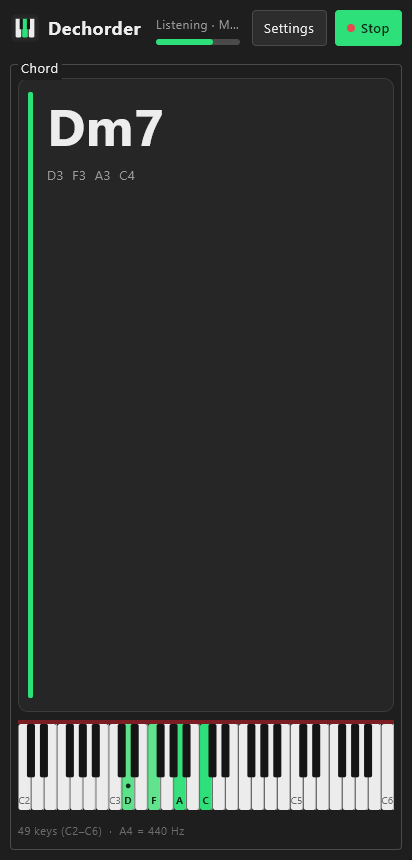
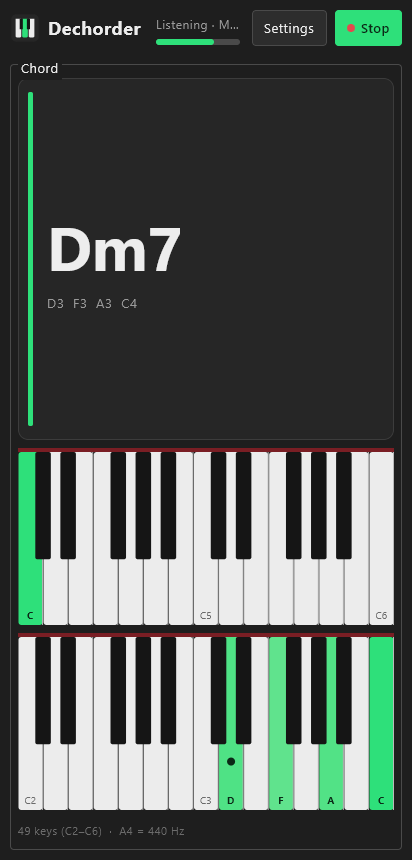
Mobile UI improvements

diff --git a/composeApp/src/commonMain/kotlin/app/dechorder/ui/ChordCard.kt b/composeApp/src/commonMain/kotlin/app/dechorder/ui/ChordCard.kt
@@ -3,6 +3,7 @@ package app.dechorder.ui
 import androidx.compose.foundation.background
 import androidx.compose.foundation.layout.Arrangement
 import androidx.compose.foundation.layout.Box
+import androidx.compose.foundation.layout.BoxWithConstraints
 import androidx.compose.foundation.layout.Column
 import androidx.compose.foundation.layout.Row
 import androidx.compose.foundation.layout.Spacer
@@ -14,21 +15,30 @@ import androidx.compose.foundation.layout.width
 import androidx.compose.foundation.shape.RoundedCornerShape
 import androidx.compose.material3.Text
 import androidx.compose.runtime.Composable
+import androidx.compose.runtime.remember
 import androidx.compose.ui.Alignment
 import androidx.compose.ui.Modifier
 import androidx.compose.ui.draw.clip
+import androidx.compose.ui.platform.LocalDensity
+import androidx.compose.ui.text.TextStyle
 import androidx.compose.ui.text.font.FontWeight
+import androidx.compose.ui.text.rememberTextMeasurer
 import androidx.compose.ui.text.style.TextAlign
 import androidx.compose.ui.text.style.TextOverflow
 import androidx.compose.ui.unit.dp
 import androidx.compose.ui.unit.sp
 import app.dechorder.engine.LiveState
 import app.dechorder.music.Notes
+import app.dechorder.music.Quality
 import app.dechorder.music.Reading
+
+private const val REFERENCE_SIZE = 100f
+/** Horizontal space in the card that isn't text (dp): the accent bar and the paddings around it. */
+private const val TEXT_INSET = 10f + 5f + 14f + 10f
 
 /** The big display: the chord sounding now and its notes. */
 @Composable
-fun ChordCard(state: LiveState, compact: Boolean, modifier: Modifier = Modifier) {
+fun ChordCard(state: LiveState, modifier: Modifier = Modifier) {
     Panel(modifier) {
         val reading = state.reading
         if (!state.listening) {
@@ -54,31 +64,55 @@ fun ChordCard(state: LiveState, compact: Boolean, modifier: Modifier = Modifier)
         val accent = if (reading is Reading.ChordReading) Palette.Accent
         else if (reading != null) Palette.TextDim else Palette.Border
 
-        Row(Modifier.fillMaxSize().padding(vertical = 12.dp)) {
-            Box(Modifier.padding(start = 10.dp, top = 2.dp, bottom = 2.dp).width(5.dp).fillMaxHeight()
-                .clip(RoundedCornerShape(2.dp)).background(accent))
-            Column(Modifier.weight(1f).padding(start = 14.dp, end = 12.dp), verticalArrangement = Arrangement.Center) {
-                val big = if (compact) 52.sp else 68.sp
-                Text(
-                    title,
-                    color = if (reading == null) Palette.TextFaint else Palette.Text,
-                    fontSize = big,
-                    lineHeight = big,
-                    fontWeight = FontWeight.Bold,
-                    maxLines = 1,
-                    overflow = TextOverflow.Ellipsis,
-                )
-                if (subtitle.isNotEmpty()) {
-                    Text(subtitle, color = Palette.TextDim, fontSize = if (compact) 16.sp else 19.sp, maxLines = 1)
+        BoxWithConstraints(Modifier.fillMaxSize()) {
+            // One size for every chord: as big as the card allows (about a third of its height), but small
+            // enough that the widest chord name without its bass (e.g. "Ebm(maj7)") fits the width. A slash
+            // chord too wide for one line puts its bass on a second line ("Ebm(maj7)" / "/Ab"), so the size
+            // leaves room in height for two lines.
+            val measurer = rememberTextMeasurer()
+            val density = LocalDensity.current
+            val widest = remember(measurer, density) {
+                val style = TextStyle(fontSize = REFERENCE_SIZE.sp, fontWeight = FontWeight.Bold)
+                fun width(text: String) = measurer.measure(text, style).size.width
+                val root = Notes.COMMON_NAMES.maxBy { width(it) }
+                val quality = Quality.entries.map { it.symbol }.maxBy { width(it) }
+                with(density) { width("$root$quality").toDp().value } * 1.04f   // a little spare for kerning
+            }
+            val textWidth = maxWidth.value - TEXT_INSET
+            val bigSize = minOf(
+                maxHeight.value * 0.32f,
+                (maxHeight.value - 28f) / 2.25f,   // two title lines, the notes line and the paddings
+                REFERENCE_SIZE * textWidth / widest,
+            ).coerceIn(1f, 130f)
+            val titleStyle = TextStyle(fontSize = bigSize.sp, lineHeight = bigSize.sp, fontWeight = FontWeight.Bold)
+            // The bass follows the last "/" (the 6/9 chord has one of its own).
+            val slash = if (reading is Reading.ChordReading && reading.chord.isInversion) title.lastIndexOf('/') else -1
+            val shownTitle = if (slash > 0 &&
+                measurer.measure(title, titleStyle).size.width > with(density) { textWidth.dp.toPx() }
+            ) title.substring(0, slash) + "\n" + title.substring(slash) else title
+            Row(Modifier.fillMaxSize().padding(vertical = 12.dp)) {
+                Box(Modifier.padding(start = 10.dp, top = 2.dp, bottom = 2.dp).width(5.dp).fillMaxHeight()
+                    .clip(RoundedCornerShape(2.dp)).background(accent))
+                Column(Modifier.weight(1f).fillMaxHeight().padding(start = 14.dp, end = 10.dp), verticalArrangement = Arrangement.Center) {
+                    Text(
+                        shownTitle,
+                        color = if (reading == null) Palette.TextFaint else Palette.Text,
+                        style = titleStyle,
+                        maxLines = 2,
+                        overflow = TextOverflow.Ellipsis,
+                    )
+                    if (subtitle.isNotEmpty()) {
+                        Text(subtitle, color = Palette.TextDim, fontSize = (bigSize * 0.3f).coerceIn(16f, 30f).sp, maxLines = 1)
+                    }
+                    Spacer(Modifier.height(4.dp))
+                    Text(
+                        if (state.notes.isEmpty()) "listening…" else state.notes.joinToString("  ") { Notes.nameWithOctave(it.midi) },
+                        color = Palette.TextDim,
+                        fontSize = (bigSize * 0.22f).coerceIn(13f, 24f).sp,
+                        maxLines = 1,
+                        overflow = TextOverflow.Ellipsis,
+                    )
                 }
-                Spacer(Modifier.height(4.dp))
-                Text(
-                    if (state.notes.isEmpty()) "listening…" else state.notes.joinToString("  ") { Notes.nameWithOctave(it.midi) },
-                    color = Palette.TextDim,
-                    fontSize = 13.sp,
-                    maxLines = 1,
-                    overflow = TextOverflow.Ellipsis,
-                )
             }
         }
     }

diff --git a/composeApp/src/commonMain/kotlin/app/dechorder/ui/App.kt b/composeApp/src/commonMain/kotlin/app/dechorder/ui/App.kt
@@ -35,7 +35,6 @@ import androidx.compose.ui.Modifier
 import androidx.compose.ui.draw.clip
 import androidx.compose.ui.text.font.FontWeight
 import androidx.compose.ui.text.style.TextOverflow
-import androidx.compose.ui.unit.Dp
 import androidx.compose.ui.unit.dp
 import androidx.compose.ui.unit.sp
 import app.dechorder.engine.LiveListener
@@ -71,7 +70,7 @@ fun DechorderApp(platform: Platform) {
                 }
                 if (wide) {
                     Row(Modifier.fillMaxSize(), horizontalArrangement = Arrangement.spacedBy(10.dp)) {
-                        Main(state, settings, range, compact = false, onListen = listener::toggle,
+                        Main(state, settings, range, compact = false, twoRows = false, onListen = listener::toggle,
                             settingsButton = null, modifier = Modifier.weight(1f).fillMaxHeight())
                         GroupBox("Settings", Modifier.width(340.dp).fillMaxHeight()) {
                             SettingsPanel(platform, settings, state, Modifier.fillMaxSize())
@@ -87,7 +86,8 @@ fun DechorderApp(platform: Platform) {
                         SettingsPanel(platform, settings, state, Modifier.fillMaxSize())
                     }
                 } else {
-                    Main(state, settings, range, compact = true, onListen = listener::toggle,
+                    // Portrait phone: the keyboard in two rows, so the keys are twice as wide.
+                    Main(state, settings, range, compact = true, twoRows = maxHeight > maxWidth, onListen = listener::toggle,
                         settingsButton = { showSettings = true }, modifier = Modifier.fillMaxSize())
                 }
             }
@@ -101,22 +101,41 @@ private fun Main(
     settings: AppSettings,
     range: KeyboardRange,
     compact: Boolean,
+    twoRows: Boolean,
     onListen: () -> Unit,
     settingsButton: (() -> Unit)?,
     modifier: Modifier,
 ) {
     Column(modifier, verticalArrangement = Arrangement.spacedBy(10.dp)) {
         Header(state, onListen, settingsButton)
-        GroupBox("Chord", Modifier.fillMaxWidth().weight(1f)) {
-            ChordCard(state, compact, Modifier.fillMaxWidth().weight(1f).heightIn(min = 120.dp, max = 260.dp))
-            BoxWithConstraints(Modifier.fillMaxWidth()) {
-                // Keys about six times as long as they are wide, like a real piano.
-                val whites = (range.low..range.high).count { !app.dechorder.music.Notes.isBlack(it) }
-                val keyboardHeight: Dp = (maxWidth / whites * 6).coerceIn(90.dp, if (compact) 150.dp else 200.dp)
-                PianoKeyboard(
-                    range.low, range.high, state.notes, settings.showNoteNames,
-                    Modifier.fillMaxWidth().height(keyboardHeight),
-                )
+        val rows = (if (twoRows) splitKeyboard(range.low, range.high) else null)
+            ?.let { (lower, upper) -> listOf(upper, lower) }   // treble above bass
+            ?: listOf(range.low..range.high)
+        val slots = rows.maxOf { whiteCount(it) }
+        val split = rows.size == 2
+        // One keyboard row: the card stops at 260 dp and the keyboard sits right under it, rather than
+        // leaving a tall empty card. Two rows (portrait phone): the card and the keyboard share the
+        // screen half-and-half.
+        GroupBox("Chord", Modifier.fillMaxWidth().weight(1f, fill = split)) {
+            val card = if (split) Modifier.weight(1f)
+            else Modifier.weight(1f, fill = false).heightIn(min = 120.dp, max = 260.dp)
+            ChordCard(state, Modifier.fillMaxWidth().then(card))
+            BoxWithConstraints(Modifier.fillMaxWidth().then(if (split) Modifier.weight(1f) else Modifier)) {
+                // One row: keys about six times as long as they are wide, like a real piano.
+                val singleHeight = (maxWidth / slots * 6).coerceIn(90.dp, if (compact) 150.dp else 200.dp)
+                Column(if (split) Modifier.fillMaxSize() else Modifier, verticalArrangement = Arrangement.spacedBy(8.dp)) {
+                    val rowHeight = if (split) Modifier.weight(1f) else Modifier.height(singleHeight)
+                    for (row in rows) {
+                        // A shorter row is extended to the same length (the bass row then also shows the
+                        // first key or two of the treble row), so both rows end in line.
+                        val shown = extendKeyboard(row, slots)
+                        PianoKeyboard(
+                            shown.first, shown.last, state.notes, settings.showNoteNames,
+                            Modifier.fillMaxWidth().then(rowHeight),
+                            slots = slots, fullLow = range.low, fullHigh = range.high,
+                        )
+                    }
+                }
             }
             Text(
                 "${range.label}  ·  A4 = ${settings.a4} Hz",

diff --git a/composeApp/src/commonMain/kotlin/app/dechorder/ui/PianoKeyboard.kt b/composeApp/src/commonMain/kotlin/app/dechorder/ui/PianoKeyboard.kt
@@ -22,6 +22,10 @@ import app.dechorder.music.Notes
 /**
  * A piano keyboard from [low] to [high] (MIDI numbers, both white keys) whose keys light up for the
  * notes sounding. Brighter means louder; the lowest note (the bass) is marked with a dot.
+ *
+ * When the keyboard is shown in several rows, [slots] is the number of white keys the widest row has
+ * (so all rows have keys of the same size, left-aligned) and [fullLow]..[fullHigh] is the range of
+ * all rows together: only notes outside it get an arrow.
  */
 @Composable
 fun PianoKeyboard(
@@ -30,6 +34,9 @@ fun PianoKeyboard(
     notes: List<ActiveNote>,
     showNames: Boolean,
     modifier: Modifier = Modifier,
+    slots: Int = 0,
+    fullLow: Int = low,
+    fullHigh: Int = high,
 ) {
     val measurer = rememberTextMeasurer()
     Canvas(modifier) {
@@ -39,7 +46,7 @@ fun PianoKeyboard(
         if (whites.isEmpty()) return@Canvas
         val felt = 4.dp.toPx()
         val top = felt
-        val whiteW = size.width / whites.size
+        val whiteW = size.width / maxOf(slots, whites.size)
         val whiteH = size.height - top
         val blackW = whiteW * 0.62f
         val blackH = whiteH * 0.62f
@@ -80,8 +87,8 @@ fun PianoKeyboard(
         }
 
         // Notes beyond the keys shown: an arrow at that end.
-        if (notes.any { it.midi < low }) arrow(left = true, top, whiteH)
-        if (notes.any { it.midi > high }) arrow(left = false, top, whiteH)
+        if (low == fullLow && notes.any { it.midi < fullLow }) arrow(left = true, top, whiteH)
+        if (high == fullHigh && notes.any { it.midi > fullHigh }) arrow(left = false, top, whiteH)
     }
 }
 
@@ -113,4 +120,31 @@ private fun DrawScope.arrow(left: Boolean, top: Float, height: Float) {
         close()
     }
     drawPath(path, Palette.Accent)
+}
+
+/**
+ * Splits [low]..[high] into a lower and an upper half for a two-row keyboard. The cut falls after a B or
+ * an E (no black key between the halves), as close to the middle as possible. Null if the range is too small.
+ */
+fun splitKeyboard(low: Int, high: Int): Pair<IntRange, IntRange>? {
+    val whites = (low..high).filter { !Notes.isBlack(it) }
+    val middle = (whites.size - 1) / 2.0
+    val cut = whites.indices
+        .filter { it in 2 until whites.size - 3 && Notes.pc(whites[it]) in setOf(4, 11) }
+        .minByOrNull { kotlin.math.abs(it - middle) + if (Notes.pc(whites[it]) == 11) 0.0 else 0.5 }
+        ?: return null
+    return whites.first()..whites[cut] to whites[cut + 1]..whites.last()
+}
+
+fun whiteCount(range: IntRange): Int = range.count { !Notes.isBlack(it) }
+
+/** Extends [range] upwards (downwards at the top of the MIDI range) until it has [whites] white keys. */
+fun extendKeyboard(range: IntRange, whites: Int): IntRange {
+    var low = range.first
+    var high = range.last
+    while (whiteCount(low..high) < whites) {
+        if (high < 108) { high++; while (Notes.isBlack(high)) high++ }
+        else { low--; while (Notes.isBlack(low)) low-- }
+    }
+    return low..high
 }

diff --git a/README.md b/README.md
@@ -52,7 +52,8 @@ publishing.
 - **Sensitivity**: higher finds quieter notes but may add notes that aren't there.
 - **Ignore sounds below**: noise gate; raise it in a noisy room.
 - **Chord change delay**: how long a new chord must sound before it is shown.
-- **Keyboard**: 37 to 88 keys, or fit to the screen; note names on lit keys.
+- **Keyboard**: 37 to 88 keys, or fit to the screen; note names on lit keys. On a phone held upright the
+  keyboard is split into two rows (treble above bass) so the keys are big enough to read.
 
 ## LLMs used for development
 
